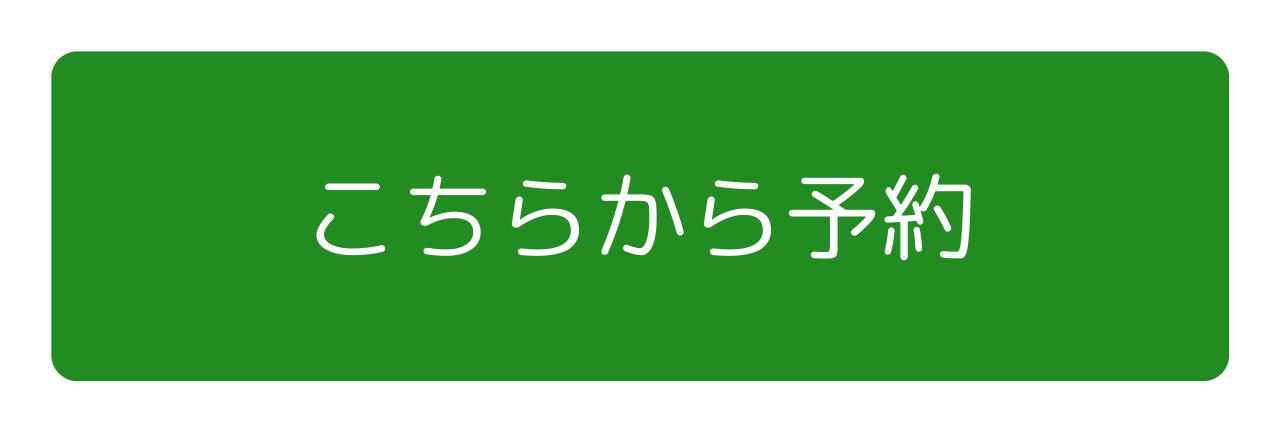
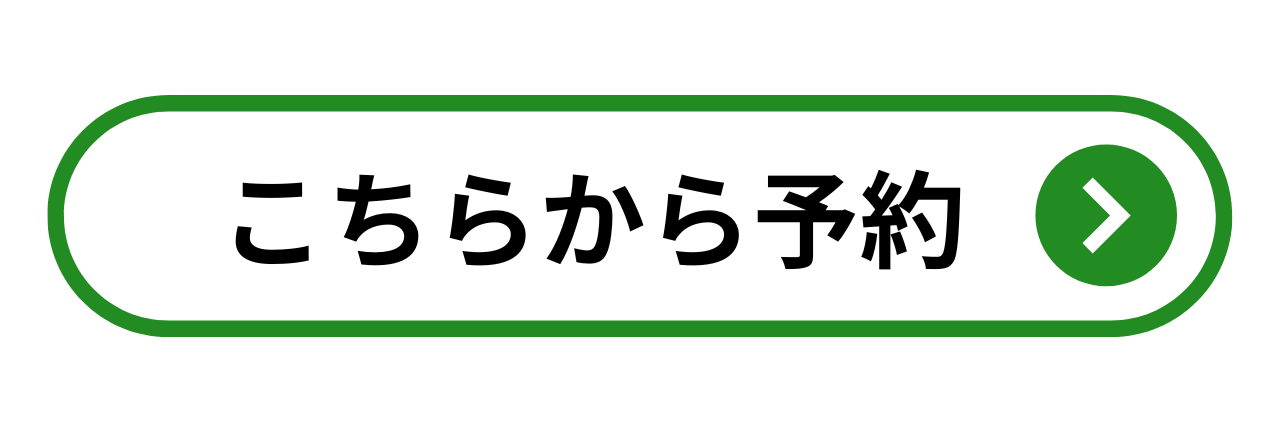
update rich-menu png

diff --git a/src/rich-menu.ts b/src/rich-menu.ts
@@ -3,10 +3,6 @@ import axios from 'axios';
 import sharp from 'sharp';
 import fs from 'fs';
 import path from 'path';
-import { fileURLToPath } from 'url';
-
-const __filename = fileURLToPath(import.meta.url);
-const __dirname = path.dirname(__filename);
 
 const tsl = {
   placeOrder: '注文する',
@@ -19,8 +15,8 @@ export async function initRichMenu(client: messagingApi.MessagingApiClient, chan
     // Step 1: Create the rich menu
     const richMenu = await client.createRichMenu({
       size: {
-        width: 2500,
-        height: 643,
+        width: 1280,
+        height: 432,
       },
       selected: false,
       name: 'Simple Order Menu',
@@ -30,8 +26,8 @@ export async function initRichMenu(client: messagingApi.MessagingApiClient, chan
           bounds: {
             x: 0,
             y: 0,
-            width: 2500,
-            height: 643,
+            width: 1280,
+            height: 432,
           },
           action: {
             type: 'message',
@@ -45,7 +41,7 @@ export async function initRichMenu(client: messagingApi.MessagingApiClient, chan
 
     // Step 2: Load your own image
     const imagePath =  path.resolve('./images/', 'rich-menu.png');
-    console.log('testPath',imagePath)
+
     const imageBuffer = fs.readFileSync(imagePath);
 
     // Optional: resize or convert the image with Sharp
